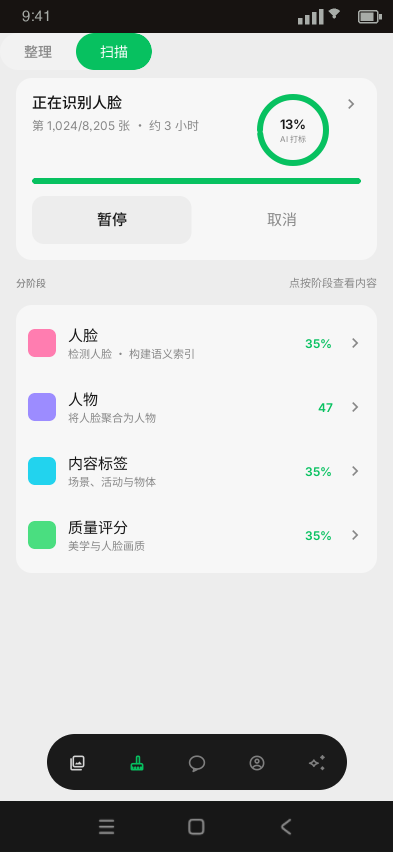
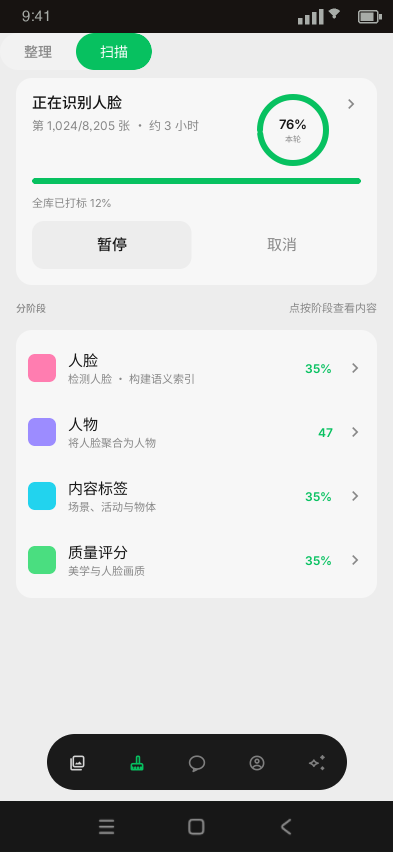
fix(tag): 运行态进度可视——圆环/轨道切「本轮会话进度」口径,全库锚点降 caption 行
- 根因(真机反馈):运行态圆环/轨道此前绑全库完成率(一轮 50 项只挪 <1%,等于冻住),
  状态仅一行小字——感知上「看不到状态和进度条」
- 运行态:圆环=本轮 x/y(76% 级,肉眼走动)+「本轮」微标签;轨道同口径;轨道下增
  「全库已打标 N%」caption 行——唯一百分比锚点保留(口径立法不破)
- 暂停态圆环停在断点(合理);终态失败无叙述→回落全库口径
- 画布运行帧同步(478:102→76%/478:103→本轮/新增 478:185 libraryLine);health-check 归零;
  +2 变量五语(tag_ring_session_label/tag_scan_library.line…app 键);真机 85% 走动验证

diff --git a/androidApp/src/main/java/com/mamba/picme/features/gallery/components/TagGenerationControlScreen.kt b/androidApp/src/main/java/com/mamba/picme/features/gallery/components/TagGenerationControlScreen.kt
@@ -69,6 +69,7 @@ import com.mamba.picme.util.permission.BackgroundScanGuard
 import kotlinx.coroutines.delay
 import kotlinx.coroutines.launch
 import java.util.Locale
+import kotlin.math.roundToInt
 
 /**
  * TAG 生成精细控制子页面
@@ -481,11 +482,21 @@ private fun HeroCard(
         model.isPaused -> MaterialTheme.colorScheme.onSecondaryContainer
         else -> MaterialTheme.colorScheme.onPrimaryContainer
     }
-    // 口径立法：圆环百分比空闲=Pass3 库级、运行=LibraryCompletion，同公式同舍入
+    // 口径（2026-10-01 真机反馈修订）：空闲=全库 AI 打标完成率（LibraryCompletion/Pass3 同源）；
+    // 运行=圆环与轨道切「本轮会话进度」（第 x/y 张，肉眼可见走动——全库口径一轮只挪 <1% 等于冻住），
+    // 全库完成率降级为轨道下 caption 行，唯一百分比锚点保留。
     val taggedPct = library?.percentRounded()
         ?: tagPassProgress(totalMedia, remainingPass3).percentRounded()
     val trackFraction = library?.fraction
         ?: tagPassProgress(totalMedia, remainingPass3).fraction
+    val sessionFraction = model?.narrative?.takeIf { it.total > 0 }?.let { it.processed.toFloat() / it.total }
+    val sessionPct = sessionFraction?.let { fraction -> (fraction * 100).roundToInt() }
+    val ringProgress = sessionPct ?: taggedPct
+    val ringLabelRes = if (model != null && sessionPct != null) {
+        R.string.tag_ring_session_label
+    } else {
+        R.string.tag_stats_ring_label
+    }
     // 零失败终态回落空闲态时，剩余行换上次会话统计叙述
     val terminal = lastSession?.takeIf {
         it.state == ScanSessionState.COMPLETED || it.state == ScanSessionState.CANCELLED
@@ -577,7 +588,7 @@ private fun HeroCard(
                         )
                     }
                 }
-                StatsProgressRing(progress = taggedPct)
+                StatsProgressRing(progress = ringProgress, labelRes = ringLabelRes)
                 Icon(
                     Icons.Rounded.ChevronRight,
                     null,
@@ -596,7 +607,7 @@ private fun HeroCard(
             ) {
                 Box(
                     modifier = Modifier
-                        .fillMaxWidth(trackFraction)
+                        .fillMaxWidth(sessionFraction ?: trackFraction)
                         .height(6.dp)
                         .background(
                             if (model == null) {
@@ -605,6 +616,15 @@ private fun HeroCard(
                                 contentColor
                             }
                         )
+                )
+            }
+
+            // 运行态全库锚点行：唯一百分比口径仍在场（本轮进度接管圆环后由此行承载）
+            if (model != null && library != null && !model.isTerminalWithFailures) {
+                Text(
+                    text = stringResource(R.string.tag_scan_library_line, library.percentRounded()),
+                    fontSize = 11.sp,
+                    color = contentColor.copy(alpha = 0.75f)
                 )
             }
 
@@ -1443,7 +1463,7 @@ private fun CategoryChip(
 
 /** 72dp 进度圆环（设计稿 ringSvg）：surfaceVariant 底环 + primary 实色前景弧 + 中心两行（百分比 + AI 打标微标签）。 */
 @Composable
-private fun StatsProgressRing(progress: Int) {
+private fun StatsProgressRing(progress: Int, labelRes: Int = R.string.tag_stats_ring_label) {
     val sweep = 360f * (progress.coerceIn(0, 100) / 100f)
     val trackColor = MaterialTheme.colorScheme.surfaceVariant
     val accentColor = MaterialTheme.colorScheme.primary
@@ -1478,7 +1498,7 @@ private fun StatsProgressRing(progress: Int) {
                 color = MaterialTheme.colorScheme.onSurface
             )
             Text(
-                text = stringResource(R.string.tag_stats_ring_label),
+                text = stringResource(labelRes),
                 fontSize = 8.sp,
                 color = MaterialTheme.colorScheme.onSurfaceVariant,
                 maxLines = 1
